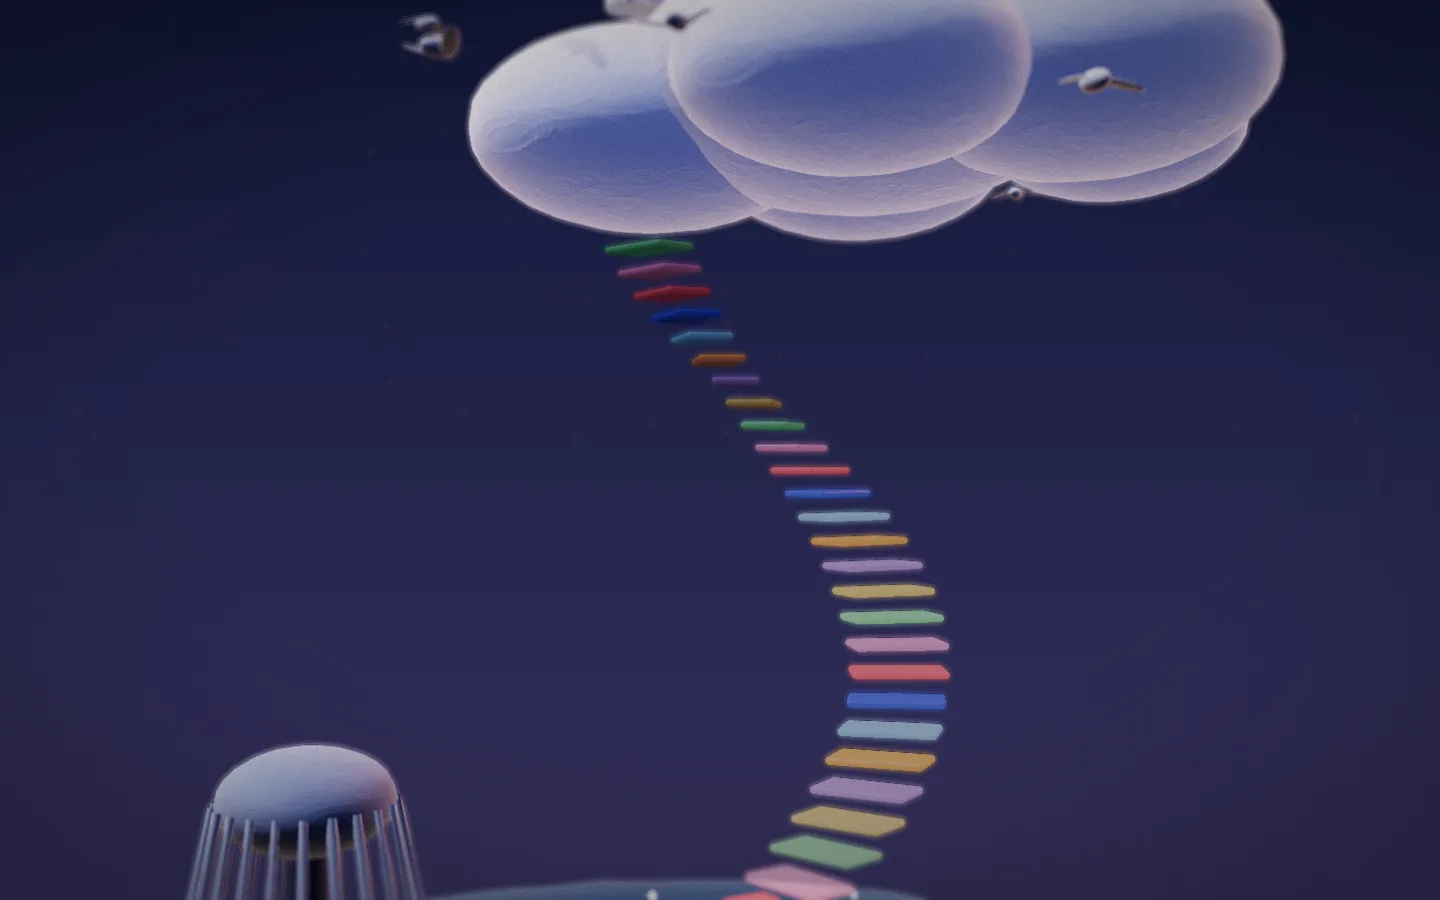
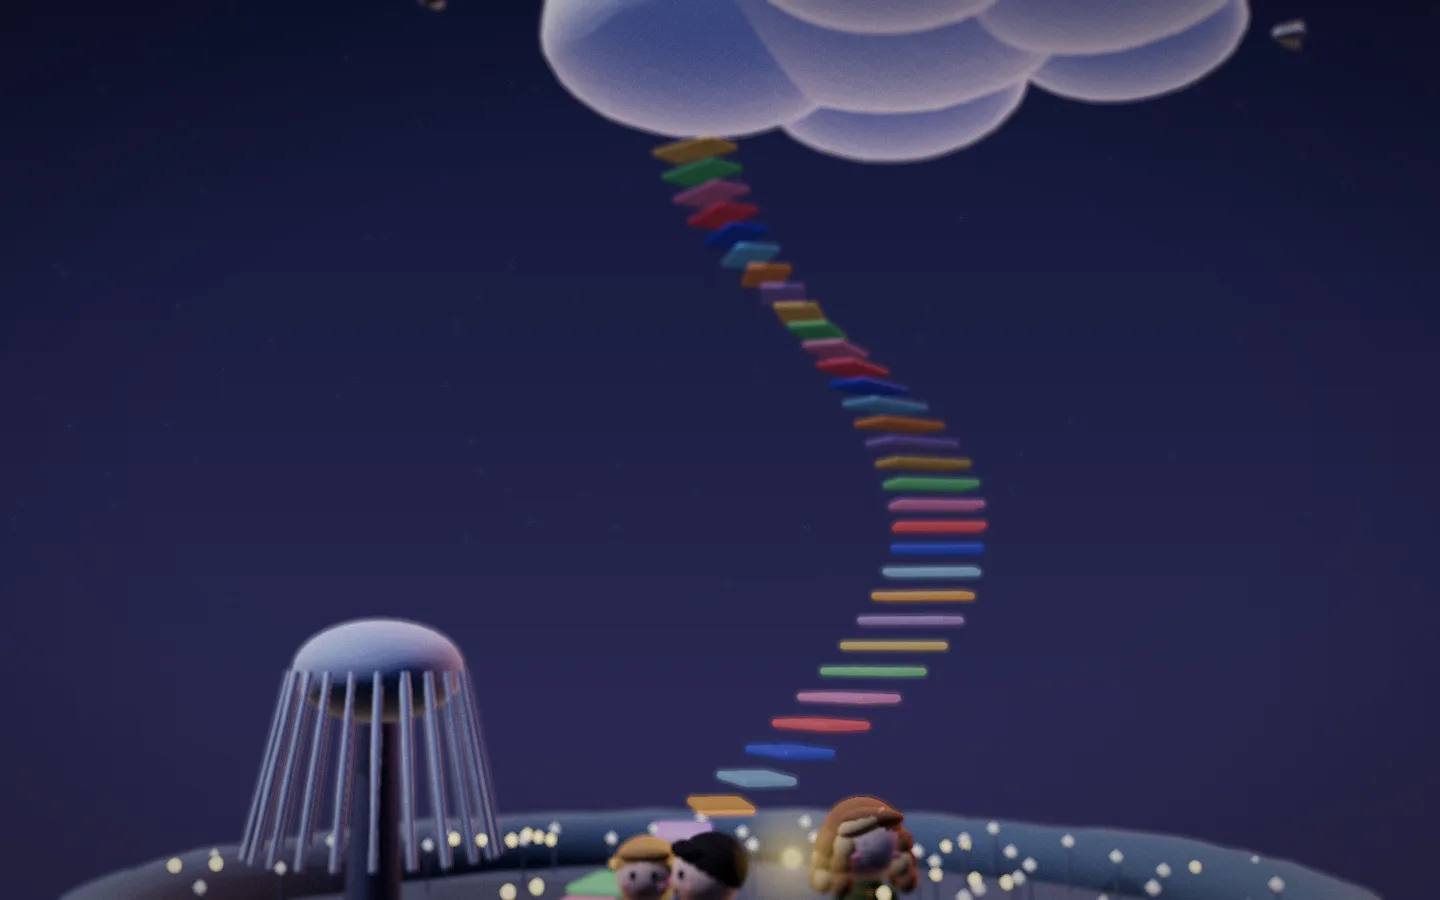
От руки (spec v0.6): рукописный шрифт, листы бумаги, книги на полке, автор по фото, светлячки
- Caveat (OFL) локально, имя вместо знака, Lora убран
- Таблички книг на планетах и порог 16+ убраны; книга открывается у полки
- Фигурка автора по фото, приветствие на облачке по центру, фокус на авторе
- Попапы и панели — лист бумаги, без shadcn; светлячки у интерактивных объектов
- Скролл сохраняется после закрытия попапа; тег «Разработка сайта nikalimp.ru»
- Постеры и OG пересняты

Claude-Session: https://claude.ai/code/session_01QsQA17zbFwrPucVXSc2DSr

Changed region(s): [[0.0312, 0.0, 0.9688, 1.0]]

diff --git a/src/world/life.js b/src/world/life.js
@@ -32,7 +32,7 @@ export function addLife(scene) {
         const a = tr * f.s + f.ph;
         f.g.position.set(f.base.x + Math.sin(a) * 0.22, f.base.y + Math.sin(a * 1.7) * 0.1, f.base.z + Math.sin(a * 0.8) * 0.16);
         const k = 0.35 + 0.65 * Math.pow(0.5 + 0.5 * Math.sin(tr * 2.6 + f.ph * 3), 3); // мерцание
-        f.core.material.opacity = 0.5 + k * 0.5; f.glow.material.opacity = k * (0.65 + night * 0.35); f.glow.scale.setScalar(0.42 + k * 0.22);
+        f.core.material.opacity = 0.5 + k * 0.5; f.glow.material.opacity = k * (0.65 + night * 0.35); f.glow.scale.setScalar(0.7 + k * 0.45);
       });
       sway.forEach(({ o, ph, rz, rx }) => { o.rotation.z = rz + Math.sin(t * 1.3 + ph) * 0.035; o.rotation.x = rx + Math.sin(t * 0.9 + ph * 1.7) * 0.02; });
       dust.forEach((d) => d.update(t, night));
@@ -42,7 +42,7 @@ export function addLife(scene) {
     // светлячок рядом с интерактивным объектом; group — остров, pos — точка в мировых координатах
     fly(group, pos) {
       const g = new THREE.Group();
-      const core = new THREE.Mesh(new THREE.SphereGeometry(0.045, 10, 8), new THREE.MeshBasicMaterial({ color: 0xfff6b0, transparent: true, toneMapped: false }));
+      const core = new THREE.Mesh(new THREE.SphereGeometry(0.06, 10, 8), new THREE.MeshBasicMaterial({ color: 0xfff6b0, transparent: true, toneMapped: false }));
       const glow = new THREE.Sprite(new THREE.SpriteMaterial({ map: halo(), color: 0xfff0a0, transparent: true, depthWrite: false, blending: THREE.AdditiveBlending, toneMapped: false }));
       g.add(core, glow);
       group.updateMatrixWorld(); const base = group.worldToLocal(pos.clone()); g.position.copy(base);

diff --git a/src/app/globals.css b/src/app/globals.css
@@ -299,7 +299,7 @@ html[data-zone="kuv"] .dock[data-for="kuv"], html[data-zone="dub"] .dock[data-fo
 /* режим мира: бабл над головой автора, виден только реплика текущей станции */
 .has-world .say { max-width: 340px; width: max-content; padding: 14px 18px 15px; border-radius: 22px; box-shadow: 0 14px 34px oklch(0.2 0.03 300 / 22%); margin-top: -18px; font-size: 15.5px; background: var(--card); }
 .has-world .say::after { content: ""; position: absolute; left: 50%; bottom: -9px; width: 18px; height: 18px; background: var(--card); transform: translateX(-50%) rotate(45deg); border-radius: 3px; }
-.has-world .say-intro { max-width: 420px; }
+.has-world .say-intro { max-width: 560px; }
 .has-world .say[data-say="home"] { margin-top: -84px; }
 .has-world .say-title { font-size: 25px; }
 .has-world .say.on { visibility: hidden; opacity: 0; transition: opacity .35s, visibility 0s linear .35s; }
@@ -384,3 +384,7 @@ html[data-say="home"] .say[data-say="home"].on { visibility: visible; opacity: 1
 .say { font-family: var(--font-hand); font-size: 20px; line-height: 1.3; }
 .has-world .say { font-size: 20px; }
 @media (max-width: 640px) { .has-world .say, .has-world .say-intro, .has-world .say[data-say="home"] { font-size: 19px; } }
+
+/* имена героев и таблички Дома автора — тоже от руки */
+.has-world .tag { font-family: var(--font-hand); font-size: 18px; font-weight: 600; }
+.sign b { font-family: var(--font-hand); }

diff --git a/src/world/main.js b/src/world/main.js
@@ -101,7 +101,7 @@ const local3 = (k, x, y, z) => () => atL(k, x, y, z);
 const seatW = () => { const v = new THREE.Vector3(); P.home.seat.getWorldPosition(v); return v; };
 const STATIONS = [
   // приветствие: автор близко и по центру кадра, лицом к гостю (spec v0.6)
-  { p: 0.00, say: 'intro', wave: true, onCloud: true, pos: () => { const c = V(10, 34, 64); return c.clone().add(V(40, 0, -30).sub(c).normalize().multiplyScalar(9)).add(V(0, -1.25, 0)); } },
+  { p: 0.00, say: 'intro', wave: true, onCloud: true, pos: () => { const c = V(10, 34, 64); return c.clone().add(V(40, 0, -30).sub(c).normalize().multiplyScalar(9)).add(V(0, -2.1, 0)); } },
   { p: 0.16, say: 'kuv', pos: local3('kuv', 2.2, 0.25, 0.6), planet: 'kuv' },
   { p: 0.39, say: 'dub', pos: local3('dub', 2.0, 0.18, -0.6), planet: 'dub' },
   { p: 0.61, say: 'fan', pos: local3('fan', 2.8, 0.12, 1.1), planet: 'fan' },

diff --git a/specs/05-tasks.md b/specs/05-tasks.md
@@ -83,7 +83,7 @@
 - [x] **H5** Тег «Разработка сайта nikalimp.ru»; порог 16+ в полёте убран
 - [x] **H6** Светлячки у интерактивных объектов
 - [x] **H7** Попапы и панели — лист бумаги, текст от руки, без shadcn
-- [ ] **H8** Постеры и OG пересняты; `npm run check`; живой сайт
+- [x] **H8** Постеры и OG пересняты; `npm run check`; живой сайт
 
 ## Вопросы
 | Задача | Вопрос | Кому | Ответ |
@@ -108,3 +108,4 @@
 - 2026-10-30 · A1–A5 · автор-проводник на облачке (`author.js`): 8 станций, посадки, стол в конце; реплики-баблы (`.say`, H1 и ответ — в первом), на телефоне — панель снизу; виджеты убраны, меню только для клавиатуры; акварель: текстура бумаги в `clay()`, проход `paint.js` (контур, штриховка, пигмент), зерно под небом; табличка с копирайтом и тегом nikalimp; постеры и OG пересняты; `npm run check` — пройдена (geo-check 9.1).
 - 2026-10-30 · A6 · прелоадер (`components/preloader.tsx`, скрипт в `layout`): включается до первой отрисовки, снимается после 3 кадров сцены; без JS, WebGL и при «уменьшить движение» не показывается.
 - 2026-10-31 · P1–P6 · «Пластилин 2.0» (spec v0.5): материал с отпечатками пальцев и неровными формами (`core.js`, normal map на canvas, сдвиг вершин по размеру предмета), резьба на боках островов; `paint.js` — AO по глубине, макро-объектив (фокус на точке взгляда камеры), плёнка, зерно, виньетка, облегчённый режим для телефона; покадровая анимация 12 кадров/с, дыхание, качание крон, пыль у фонарей, рябь (`life.js`); вмятины от облачка, кусок пластилина на столе; постеры и OG пересняты; `npm run check` — пройдена (geo-check 8.7). FPS на реальном устройстве не мерили.
+- 2026-10-31 · H1–H8 · от руки (spec v0.6): Caveat в `public/fonts` (size-adjust 122 %), Lora убран; прелоадер и OG — имя от руки, без знака; таблички книг и порог 16+ убраны, книги открываются у полки; фигурка автора по фото (`wavy`, оливковое платье, цепочка), приветствие на облачке по центру, фокус на авторе; листы бумаги для `.pop` и `.panel`, кнопки shadcn → `hand-link`; светлячки (`life.fly`); скролл сохраняется после закрытия попапа; тег «Разработка сайта nikalimp.ru»; `npm run check` — пройдена (geo-check 9.1).

diff --git a/specs/STATUS.md b/specs/STATUS.md
@@ -33,7 +33,8 @@
 - Сделано: сайт-пространство (spec v0.3, этап 8 в `05-tasks.md`): весь сайт — 3D-мир, герои, таблички и попапы.
 - Сделано: spec v0.4 — автор-проводник, без виджетов, акварель и карандаш (этап 9 в `05-tasks.md`).
 - Сделано: spec v0.5 — стиль «Пластилин 2.0» и живое движение (этап 10 в `05-tasks.md`); альбом 11 стилей — ветка `claude/style-lab`.
-- Следующий шаг: Ник смотрит на компьютере и телефоне (плавность, нагрев — AO и размытие тяжелее акварели); автор сверяет внешность фигурки и реплики от первого лица; номер Метрики (тогда вернуть ссылку на политику и баннер cookies).
+- Сделано: spec v0.6 — от руки: рукописный шрифт, листы бумаги, книги на полке, автор по фото, светлячки (этап 11).
+- Следующий шаг: Ник дописывает оборванный пункт 7 («А на последней планете…»); Ник смотрит на компьютере и телефоне (плавность, нагрев — AO и размытие тяжелее акварели); автор сверяет внешность фигурки и реплики от первого лица; номер Метрики (тогда вернуть ссылку на политику и баннер cookies).
 
 ## Ждём
 | Что | От кого | С какой даты | Что делаем, пока ждём |
